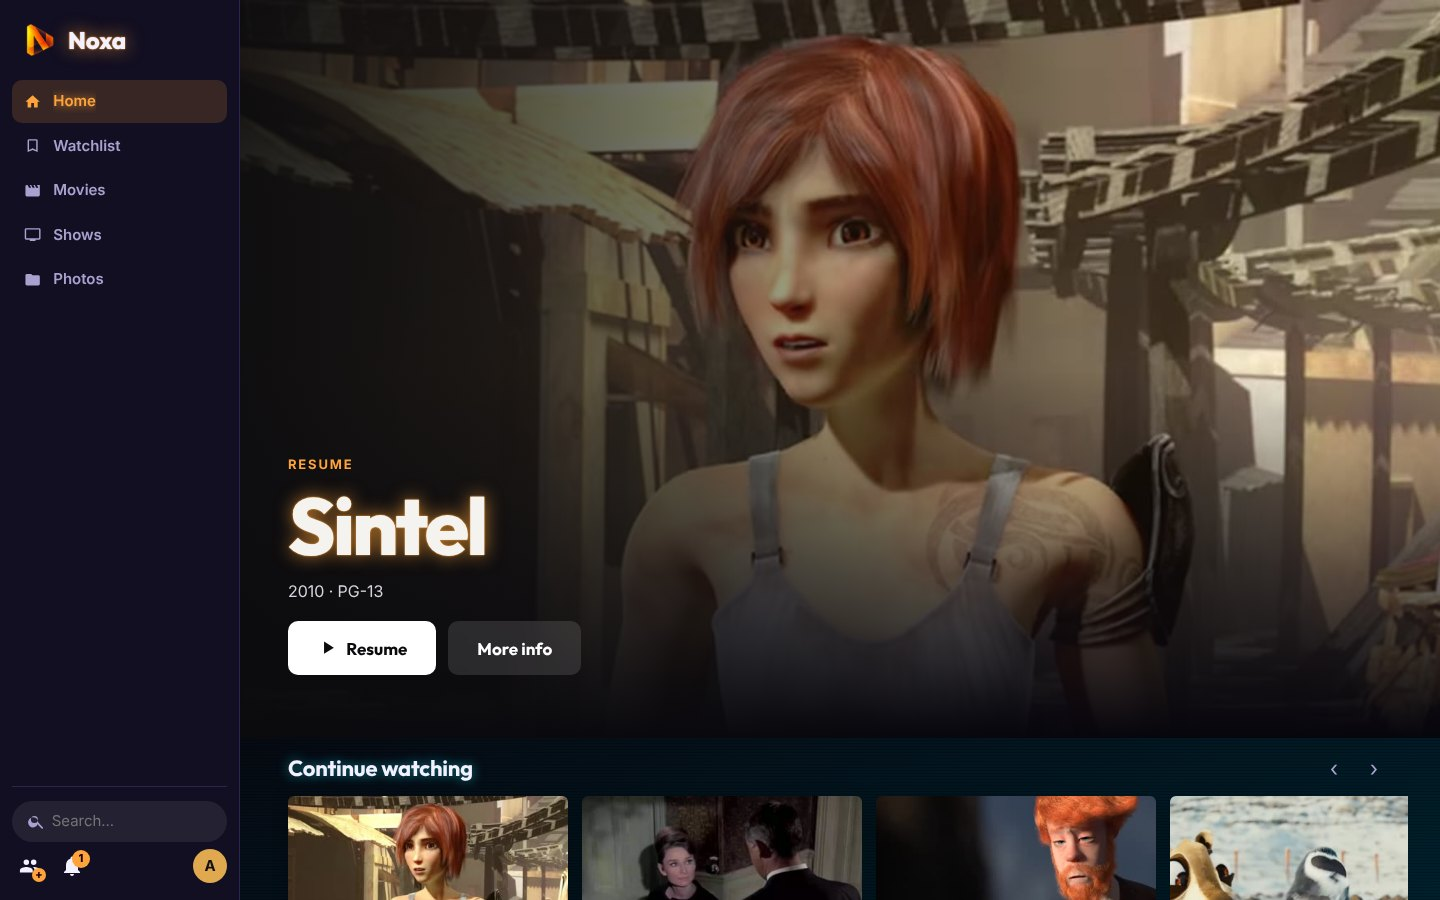
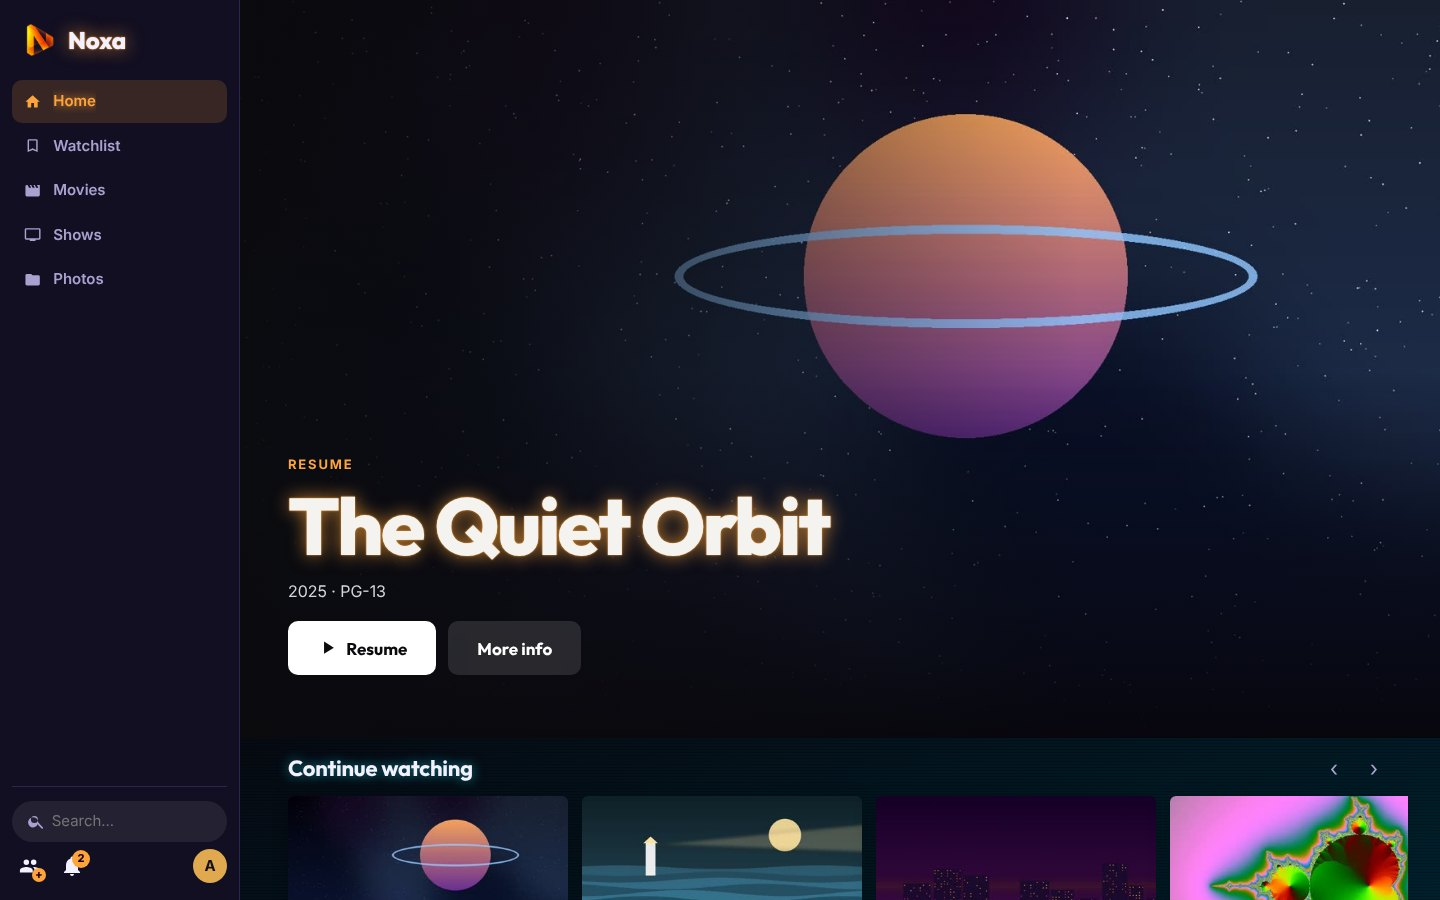
Docs: bring back the original screenshots, keep the player and photos
The free films' posters made the library and home screenshots look dull,
so the original screenshots from the generated demo library are back.
Two images stay from the free library:

- player.jpg: a real film (Tears of Steel, CC BY 3.0) in the player
- photos.jpg: the photo albums (CC0 photos); the original one showed an
  empty photo library

The README credits and docs/development.md describe this mix.

Claude-Session: https://claude.ai/code/session_019WZqhqxppt6MzdJHtpPNrn

diff --git a/docs/development.md b/docs/development.md
@@ -105,7 +105,7 @@ The Docker image is published as `ghcr.io/xenix13/noxa` and, for existing instal
 
 ## Documentation screenshots
 
-The images in `docs/images` come from a demo library of free films and photos from Wikimedia Commons: Blender Foundation open movies (Creative Commons), public domain classics and CC0 photos. The list, with licences, is in `tools/screenshots/free_titles.json`.
+Most images in `docs/images` come from a generated demo library with fictional titles (`tools/screenshots/demo_library.py`, taken with an earlier version of `take.py`). `player.jpg` and `photos.jpg` come from a library of free works from Wikimedia Commons: Blender Foundation open movies, public domain classics and CC0 photos, listed with their licences in `tools/screenshots/free_titles.json`. `take.py` is now set up for that free library:
 
 1. Download each video from its Commons page (the 480p WebM transcode is enough) as `<file>.webm`, each poster as `<title>.jpg` or `.png`, and each photo under its Commons file name.
 2. Build the library, then take the screenshots:
@@ -115,7 +115,7 @@ python3 tools/screenshots/free_library.py ~/dl/videos ~/dl/posters /srv/media ~/
 python3 tools/screenshots/take.py /srv/media docs/images     # starts a throwaway server and takes the screenshots
 ```
 
-The Blender films are upscaled to 1080p (they were made in HD); landscape artwork becomes a 2:3 poster over a blurred copy of itself. The older `demo_library.py` builds a fully generated library with fictional titles, handy when no network is available.
+The Blender films are upscaled to 1080p (they were made in HD); landscape artwork becomes a 2:3 poster over a blurred copy of itself.
 
 Run `take.py` as a regular user (as root every folder looks writable and the Libraries page warns about it). Set `CHROMIUM=/path/to/chrome` if Playwright's own browser is not installed.
 

diff --git a/README.md b/README.md
@@ -146,13 +146,7 @@ Noxa builds on [ffmpeg](https://ffmpeg.org), [hls.js](https://github.com/video-d
 
 This product uses the TMDB API but is not endorsed or certified by [TMDB](https://www.themoviedb.org). Map tiles © [OpenStreetMap](https://www.openstreetmap.org/copyright) contributors.
 
-The screenshots show free films from [Wikimedia Commons](https://commons.wikimedia.org) ([`tools/screenshots`](tools/screenshots)):
-
-- Blender Foundation open movies, © Blender Foundation, [www.blender.org](https://www.blender.org): *Big Buck Bunny*, *Sintel*, *Tears of Steel* and *Caminandes: Llama Drama* and *Llamigos* (CC BY 3.0), *Elephants Dream* (CC BY 2.5), *Cosmos Laundromat* and *Caminandes: Gran Dillama* (CC BY-SA 3.0), *Spring* (CC BY 4.0).
-- Public domain films: *Night of the Living Dead*, *Nosferatu*, *Charade*, *His Girl Friday*, *The General*.
-- Photos released under CC0 by their authors (mostly Wilfredor) on Wikimedia Commons.
-
-Plot summaries were written for this documentation; the screenshots change none of these works beyond resizing.
+Most demo titles in the screenshots are fictional; their posters and videos were generated for this documentation ([`tools/screenshots`](tools/screenshots)). The player shows *Tears of Steel*, © Blender Foundation, [www.blender.org](https://www.blender.org) (CC BY 3.0), and the photo library shows photos released under CC0 by their authors (mostly Wilfredor) on [Wikimedia Commons](https://commons.wikimedia.org).
 
 ## License
 
